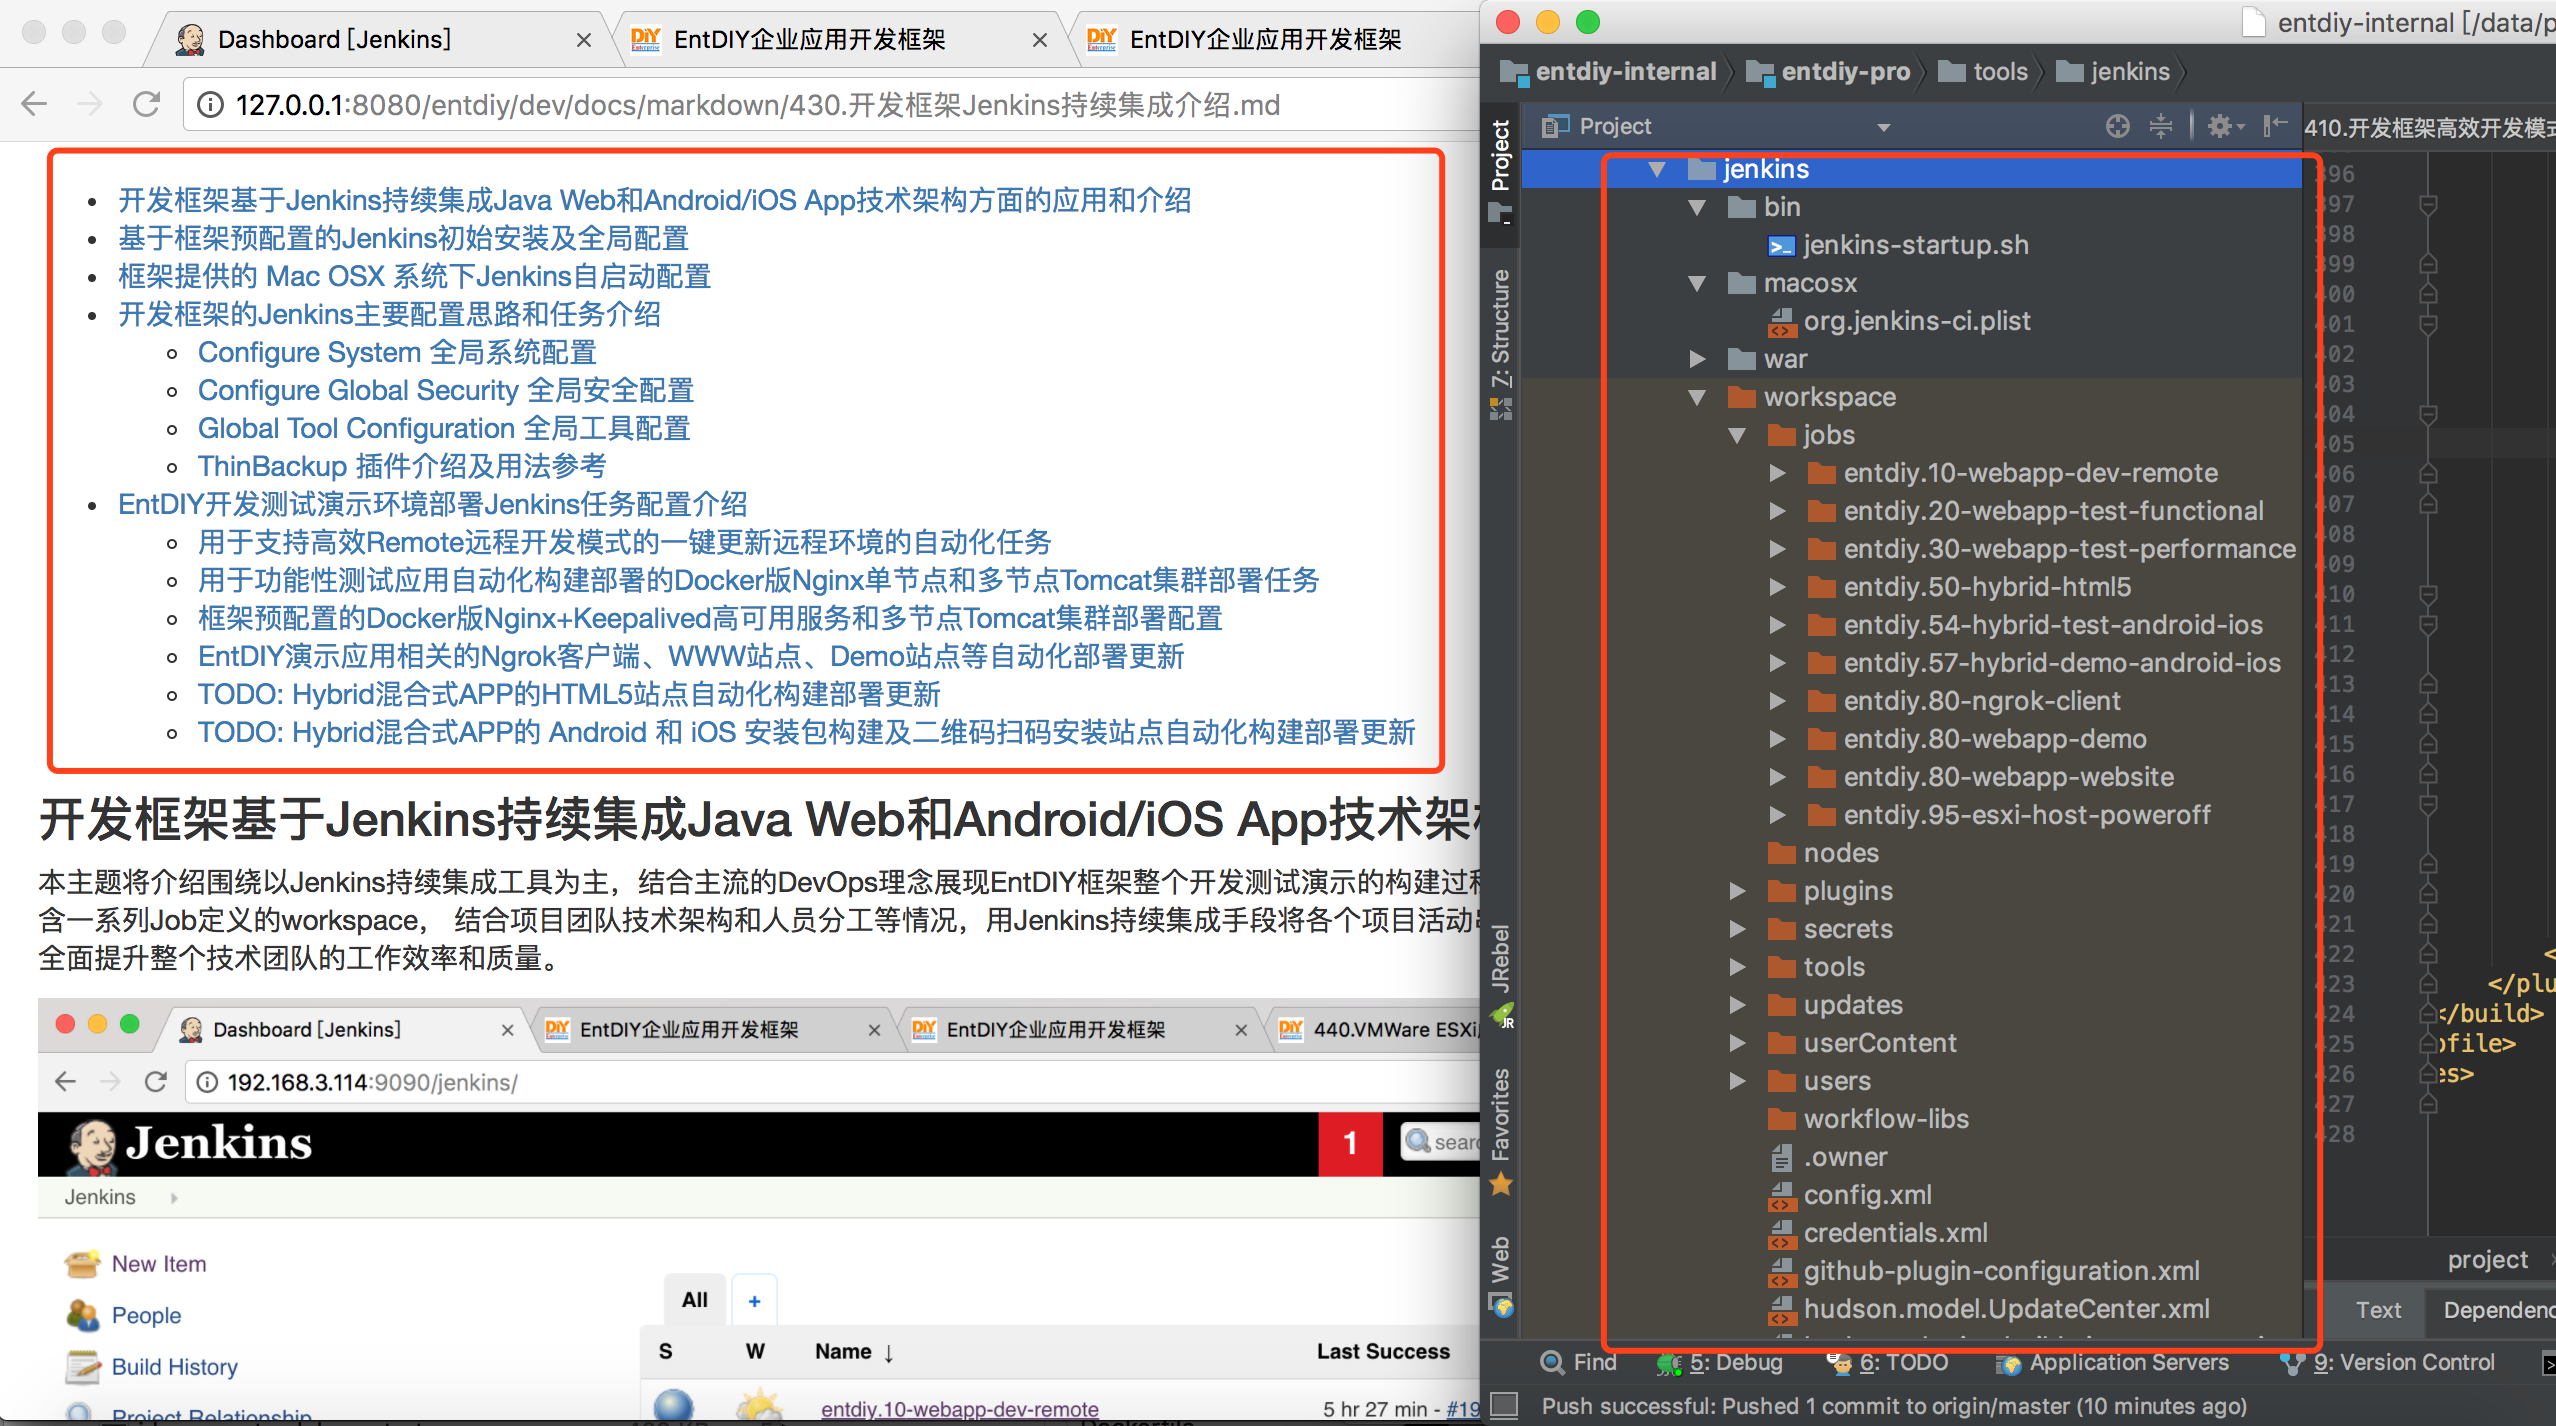
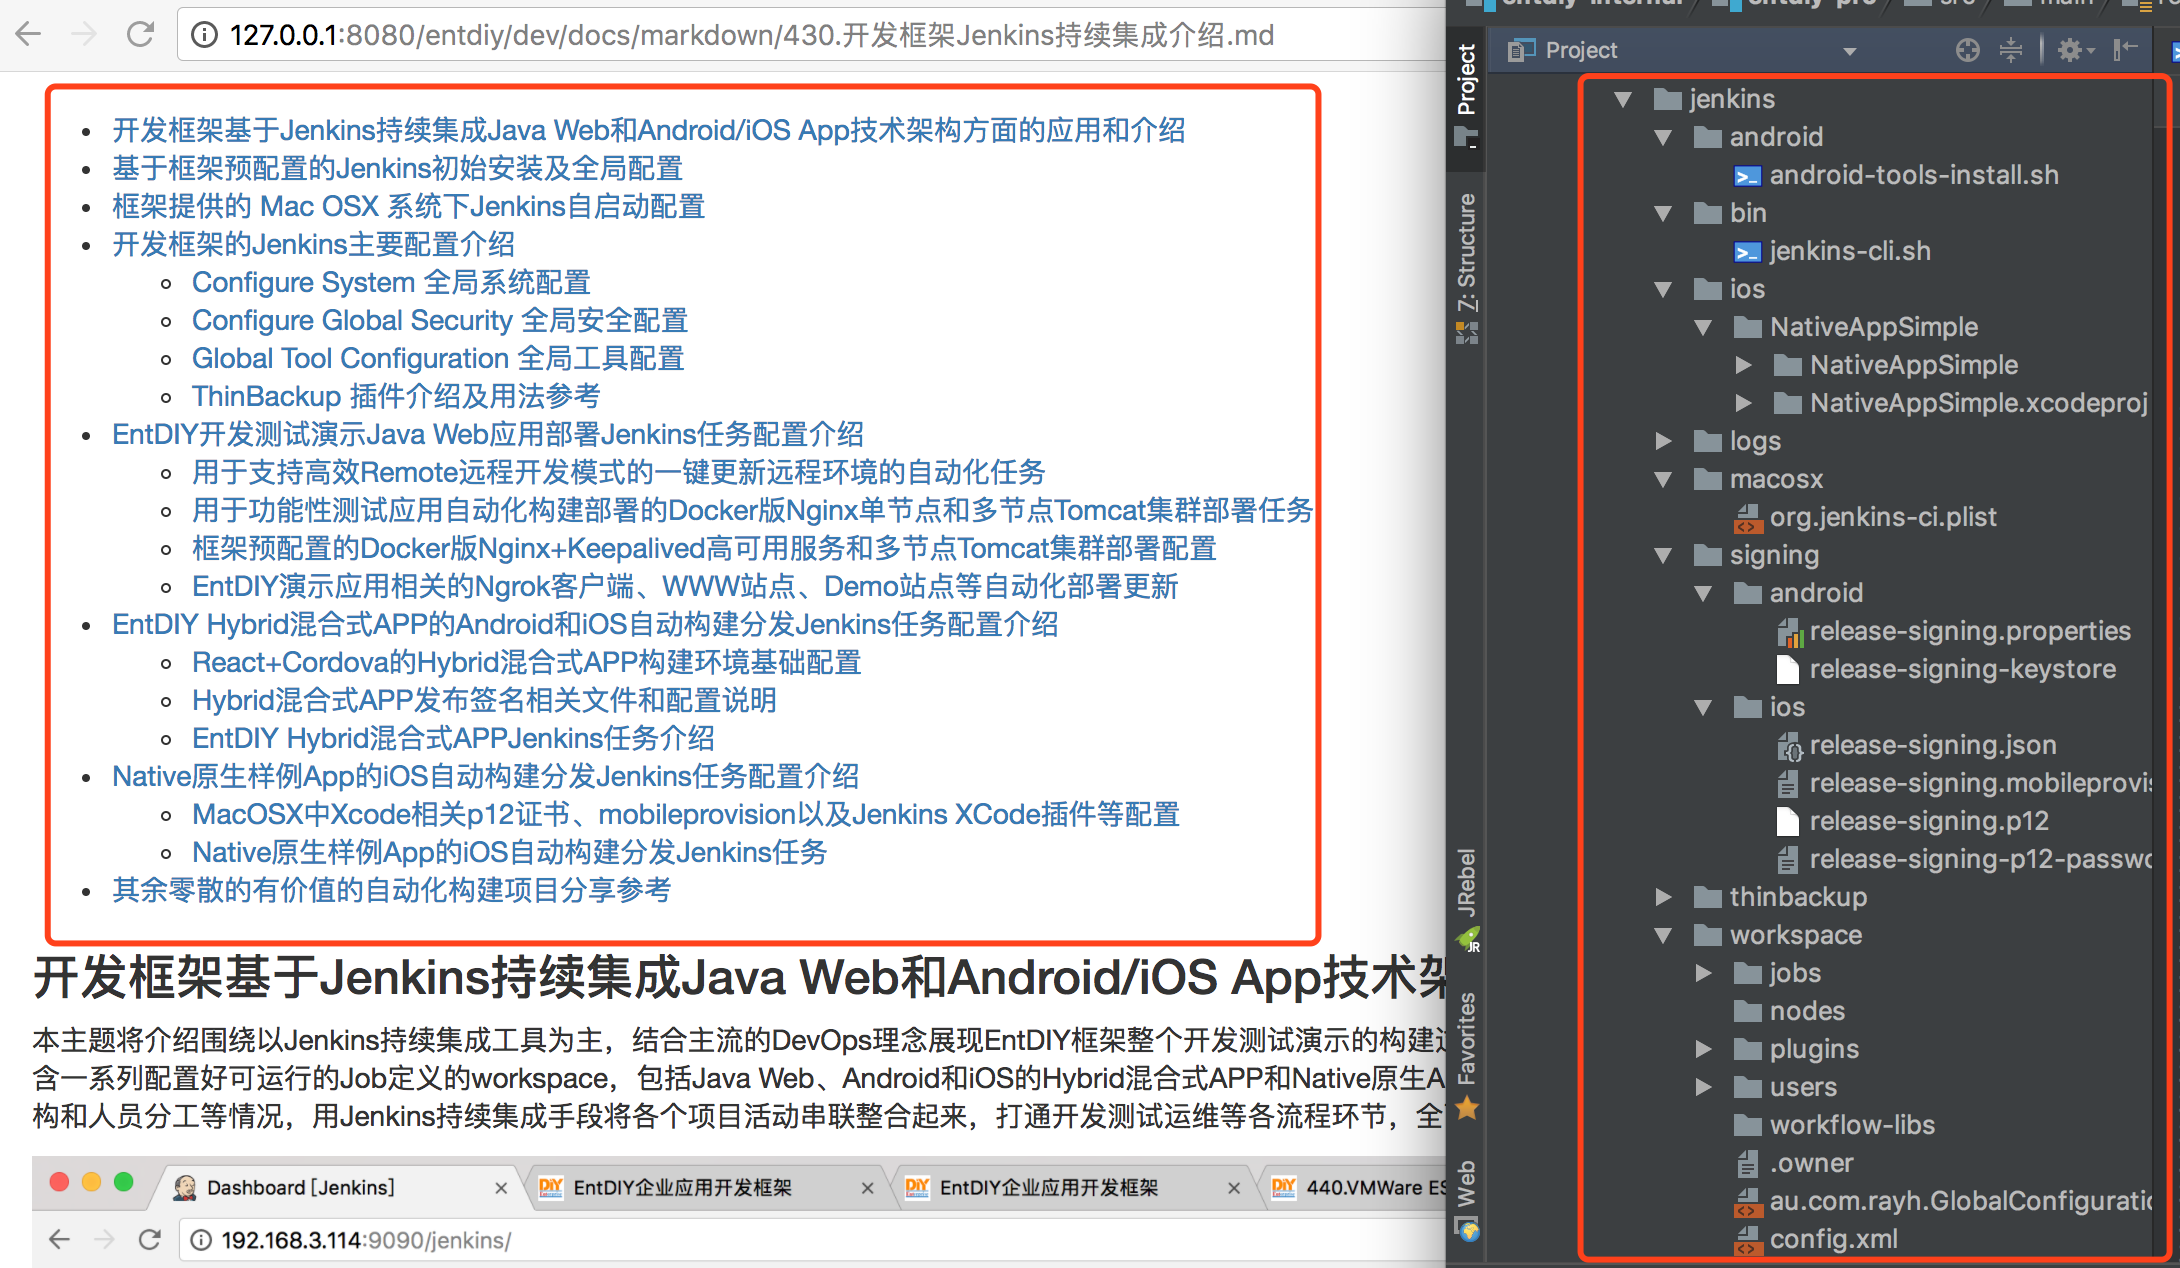
优化APP安装页面；更新专业版Jenkins内容描述

diff --git a/entdiy-app/entdiy-app-hybrid/cordova/distribution/install/index.html b/entdiy-app/entdiy-app-hybrid/cordova/distribution/install/index.html
@@ -9,25 +9,37 @@
     <meta name="renderer" content="webkit">
     <meta http-equiv="Cache-Control" content="no-siteapp"/>
     <link href="./assets/css/bootstrap.min.css" rel="stylesheet" type="text/css"/>
+    <style>
+        p {
+            padding: 5px;
+        }
+    </style>
 </head>
 
 <body style="text-align: center">
-<h4 style="padding: 30px">
-    APP_NAME
-</h4>
-<p style="padding: 30px">
+<img src="assets/img/app_logo.png" style="width: 100%;">
+<p>
     <a class="btn btn-primary btn-lg btn-block downloadBtn">下载安装APP</a>
 </p>
-<p style="padding: 30px">
+<p>
     版本: APP_VERSION
 </p>
 <p>
-    注意：目前仅构建了Android安装包，iOS版本随后发布
+    特别提示：
 </p>
-<div class="popUp hide"></div>
-<div class="notice hide">
-    <p>请点击右上角并选择"在Safari中打开22"</p>
-    <img src="assets/img/example.png">
+<p>
+    由于iOS应用涉及到苹果收费开发账户、证书签名等敏感信息不便于演示分发，社区版本仅提供Android版本，暂不提供iOS版本下载安装
+</p>
+<p>
+    专业版本中提供完整的 WMWare MacOSX 虚拟操作系统 + Android SDK/Xcode + Jenkins 全自动持续集成分发apk、plist和ipa安装文件的文档和资料
+</p>
+
+<div id="weixinAndroidTips" style="display: none; position: absolute; left:0px; top:0px;width: 100%">
+    <img src="assets/img/weixin-open-android.png" style="width: 100%;">
+</div>
+
+<div id="weixiniOSTips" style="display: none; position: absolute; left:0px; top:0px;width: 100%">
+    <img src="assets/img/weixin-open-ios.png" style="width: 100%;">
 </div>
 
 <script src="assets/js/jquery.min.js"></script>
@@ -43,25 +55,24 @@
     }
     if (version.indexOf('iPhone') > -1 || version.indexOf('iPad') > -1) {
         if (version.indexOf('MicroMessenger') > -1) {
-            $('.popUp').removeClass('hide');
-            $('.notice').removeClass('hide');
+            $('.downloadBtn').click(function () {
+                $("#weixiniOSTips").show();
+            });
         } else {
-            //填写ios的下载地址
-            $('.downloadBtn').attr('href', 'javascript:alert("当前仅支持Android系统，暂未构建iOS版本")');
-            //$('.downloadBtn').attr('href', 'itms-services://?action=download-manifest&url='+prefix.replace('http:','https:')+'app/ios/entdiy.plist');
+            $('.downloadBtn').attr('href', 'itms-services://?action=download-manifest&url=' + prefix.replace('http:', 'https:') + 'app/ios/EntDIY.plist');
         }
     } else if (version.indexOf('Android') > -1) {
         if (version.indexOf('MicroMessenger') > -1) {
-            $('.popUp').removeClass('hide');
-            $('.notice').removeClass('hide');
-            $('.notice img').attr('src', 'assets/img/example2.png');
-            $('.notice p').text('请点击右上角并选择"在浏览器中打开"');
+            $('.downloadBtn').click(function () {
+                $("#weixinAndroidTips").show();
+            });
         } else {
-            //填写android的下载地址
-            $('.downloadBtn').attr('href', prefix + 'app/android/entdiy.apk');
+            $('.downloadBtn').attr('href', prefix + 'app/android/EntDIY.apk');
         }
     } else {
-        $('.downloadBtn').attr('href', 'javascript:alert("请使用移动设备浏览器访问当前页面地址")');
+        $('.downloadBtn').click(function () {
+            alert("请使用移动设备浏览器访问当前页面地址");
+        });
     }
 </script>
 </body>

diff --git a/README.md b/README.md
@@ -14,7 +14,7 @@
 2.3.0 / 2018-03-19
 ==================
   * 基于React和Cordova的Hybrid混合式APP与API接口整合应用展示
-  * 混合式APP HTML5原型演示站点，建议以移动设备浏览器访问：  https://demo.entdiy.com/h5/index.html  
+  * 混合式APP HTML5原型演示站点，建议以移动设备浏览器访问：  https://demo.entdiy.com/app/h5/index.html  
   * 混合式APP下载安装页面（当前仅提供Android版本构建，iOS随后推出）： https://demo.entdiy.com/app/install/index.html
 
 2.2.0 / 2018-02-26

diff --git a/entdiy-devops/entdiy-dev-guide/src/main/resources/META-INF/resources/dev/docs/markdown/230.开发配置.md b/entdiy-devops/entdiy-dev-guide/src/main/resources/META-INF/resources/dev/docs/markdown/230.开发配置.md
@@ -82,6 +82,8 @@ application.properties和hibernate-redisson.yaml两个配置文件中redis主机
 
 * 直接使用框架提供的Docker Redis服务，详见 [Docker服务](220.Docker服务.md) 中 Redis 相关说明部分。
 
+在开发调试过程，如果有需要可以通过Redis监控命令了解缓存数据处理过程，详见参考：https://redis.io/commands/monitor
+
 ### MySQL数据库配置
 
 开发框架默认采用 MySQL 数据库，如果需要基于其他数据库开发只需修改 jdbc.properties 相关参数即可。

diff --git a/entdiy-devops/entdiy-dev-guide/src/main/resources/META-INF/resources/dev/docs/markdown/210.演示运行.md b/entdiy-devops/entdiy-dev-guide/src/main/resources/META-INF/resources/dev/docs/markdown/210.演示运行.md
@@ -51,6 +51,8 @@ cd到 entdiy-devops/entdiy-ops-docker 目录，请检查 all-in-one.sh 脚本是
 chmod +x all-in-one.sh
 ```
 
+docker/tomcat/config/app/application.properties中配置可能为演示模式：demo.mode=true，可以完整功能体验可把此参数修改为false
+
 然后运行即可（ -p 后面指定服务端口号，可根据本地实际情况修改，若有变更后续相关端口描述文本请对应修改；如果未指定，默认为8080）：
 
 ``` bash
